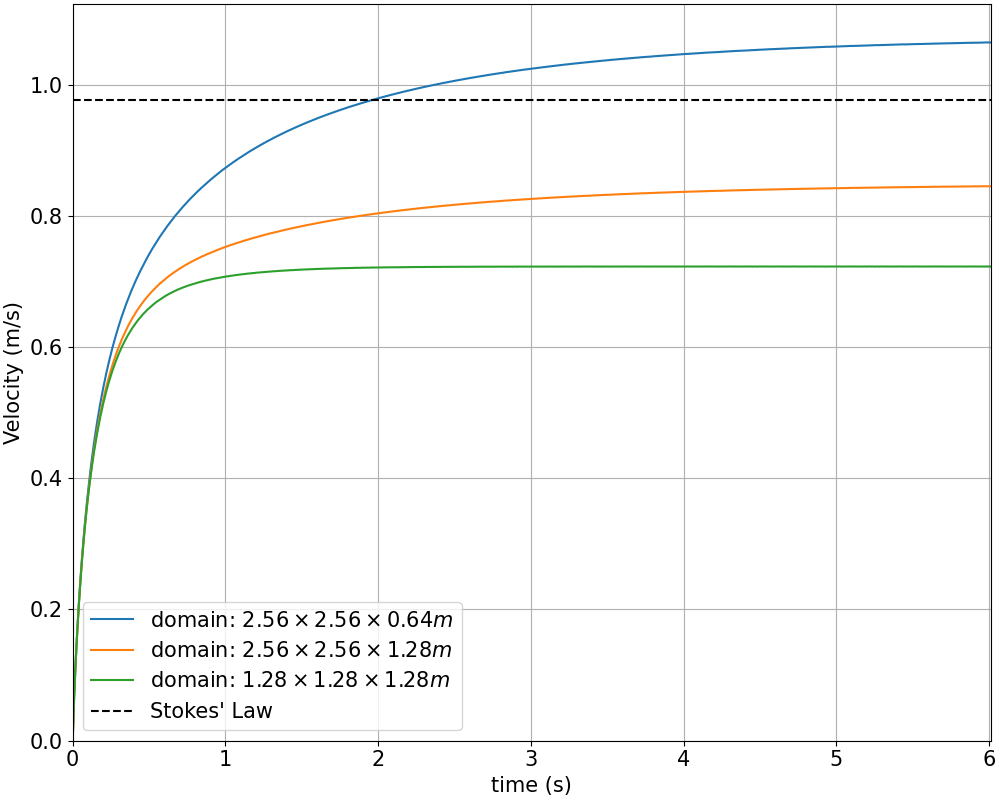
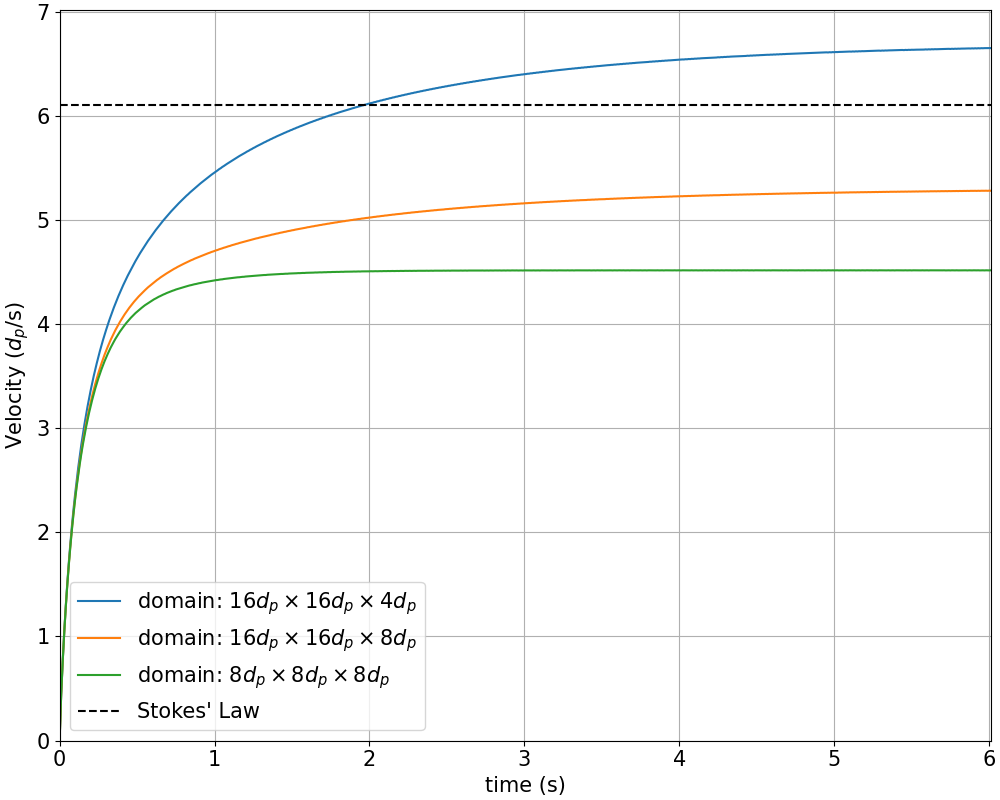
update

diff --git a/_pages/about.md b/_pages/about.md
@@ -9,9 +9,14 @@ redirect_from:
 
 I am a first-year CEE Ph.D. student at Stanford University. My interest lies in the complex physics of nature, including fluid mechanics, solid mechanics, and fluid-solid interactions, as well as applying numerical methods to model, predict, and understand their fundamental mechanisms. Currently, I am advised by Prof. [Oliver Fringer](https://web.stanford.edu/~fringer/) and collaborating with Prof. [Yinuo Yao](https://yao-mp-lab.github.io/).
 
+<div align="center" style="justify-content: center; display: flex; flex-direction: column; align-items: center;">
+  <figure style="margin: 0; width: 300px; text-align: center;">
+    <img src="/images/d0.005_rho2_1.4_rot.gif" width="300px">
+  </figure>
+</div>
+
 # Biography
 For more detailed information, please consult my  [CV](../files/CV.pdf).
-
 
 # Research
 
@@ -21,12 +26,12 @@ Direct numerical simulation (DNS) of particle-laden flows is a powerful tool for
 ### Sedimentation of uniformly distributed particles
 Sedimentation is the process by which suspended particles settle out of the fluid due to gravity or other forces acting on them. It plays an important role in in wastewater treatment and deposition of sediments in river and estuaries. 
 
-In our numerical studies, we examine the sedimentation of a single particle in a 3D triply-periodic domain. The particle's diameter is set at $$0.16m$$ with the particle Reynolds number $$ Re_{\tau} \approx 1.6$$. We investigated the influence of particle distance on its terminal velocity by considering domain sizes of $$ 2.56\times 2.56\times 0.64m$$, $$ 2.56\times 2.56\times 1.28m$$ and $$ 1.28\times 1.28\times 1.28m$$. The grid size is uniformly $$0.02m$$ in all directions. Using the PRS, we plotted the contour of vorticity and compared the time histories of velocity with the analytical value predicted by the Stokes' Law. The analysis shows that reducing the vertical distance increases the terminal velocity, as the drag is reduced when particles are closely aligned vertically. Conversely, reducing the horizontal distance decreases the terminal velocity, as the flow between the particles is accelerated.
+In our numerical studies, we examine the sedimentation of a single particle in a 3D triply-periodic domain. We investigated the influence of particle distance on its terminal velocity by considering domain sizes of $$ 16 d_p\times 16 d_p\times 4 d_p$$, $$ 16 d_p\times 16 d_p\times 8 d_p$$ and $$ 8 d_p\times 8 d_p\times 8 d_p $$, where $$d_p$$ is the particle's diameter. The grid size is uniformly $$1/8 d_p $$ in all directions. The particle Reynolds number $$ Re_{\tau} \approx 1.6$$. Using the PRS, we plotted the contour of vorticity and compared the time histories of velocity with the analytical value predicted by the Stokes' Law. The analysis shows that reducing the vertical distance increases the terminal velocity, as the drag is reduced when particles are closely aligned vertically. Conversely, reducing the horizontal distance decreases the terminal velocity, as the flow between the particles is accelerated.
 
 <div align="center" style="justify-content: center; display: flex; flex-direction: column; align-items: center;">
   <figure style="margin: 0; width: 250px; text-align: center;">
     <img src="/images/nu0.1_X2.56_Z2.56.gif" width="250px" style="display: block; margin: auto;">
-    <figcaption style="font-size: 0.75em; text-align: center; width: 100%; margin-top: 10px; margin-bottom: 20px;">Sedimentation on grid \(2.56\times 2.56\times 2.56m\)</figcaption>
+    <figcaption style="font-size: 0.75em; text-align: center; width: 100%; margin-top: 10px; margin-bottom: 20px;">Sedimentation on grid \(16 d_p\times 16 d_p\times 16 d_p\)</figcaption>
   </figure>
 </div>
 
@@ -42,7 +47,7 @@ In our numerical studies, we examine the sedimentation of a single particle in a
 ### The drafting, kissing and tumbling process of two particles
 The drafting, kissing and tumbling (DKT) process describes the dynamics and interactions between two particles moving in a fluid medium. Initially, the trailing particle accelerates as it enters the wake of the leading particle. Once the trailing particle catches up, it may collide with the leading particle and finally move away from it. The DKT process is influenced by the geometry of the system, the properties of the fluid, and the elastic and collision behaviors of particles. 
 
-We used the PRS to investigate the influence of the initial positions of particles and their densities. Simulations were performed in a 2D domain of $$2 \times 6m$$, and the diameter of the particles was $$0.25m$$. The grid was set to $$512 \times 1536$$. The contour plots of vorticity along with the particles during the DKT process are plotted below. In the reference case (a), both particles have a density of $$\rho_p = 1500kg/m^3 $$ with an initial lateral distance of $$0.005m$$. For case (b), the density of the leading particle is changed to $$\rho_p = 1400kg/m^3$$. It is observed that the two particles do not separate before hitting the ground. For case(c), we increase the initial lateral distance to $$0.25m$$. Remarkably, the trailing particle was still drawn into the wake of the leading particle and collided with it.
+We used the PRS to investigate the influence of the initial positions of particles and their densities. Simulations were performed in a 2D domain of $$ 8 d_p \times 24 d_p$$, where $$d_p$$ is the particle's diameter. The grid was set to $$512 \times 1536$$. The contour plots of vorticity along with the particles during the DKT process are plotted below. In the reference case (a), both particles have a density of $$\rho_p = 1.5 \rho_f $$ with an initial lateral distance of $$0.02 d_p$$. For case (b), the density of the leading particle is changed to $$\rho_p = 1.4 \rho_f$$. It is observed that the two particles do not separate before hitting the ground. For case(c), we increase the initial lateral distance to $$1 d_p$$. Remarkably, the trailing particle was still drawn into the wake of the leading particle and collided with it.
 <div align="center" style="display: flex; align-items: start; justify-content: center;">
   <figure style="margin-right: 30px; width: 150px; text-align: center;">
     <img src="/images/d0.005_rho2_1.5.gif" width="200">
@@ -62,26 +67,26 @@ We used the PRS to investigate the influence of the initial positions of particl
 ### Sediment transport
 Sediment transport refers to the movement of sediment particles by water across the Earth's surface. This fundamental geophysical process plays a crucial role in shaping landscapes, as well as in the formation of river channels and estuaries. Particle-resolved solvers provide us a detailed understanding of the sediment transport process, by directly modeling the fluid-particle interaction and particle-particle collision.
 
-We utilized the PRS to investigate the movement of a particle along coarse riverbed. The 2D computation domain was set as $$2.5 \times 1.25m$$ with a grid resolution of $$ 512 \times 256 $$ and it is periodic in $$x$$-direction. The riverbed was modeled with uniform, fixed particles. We imposed a free-slip boundary condition at the top. The diameter of the particles was $$0.25m$$. Three cases of particle density were considered: $$\rho_p = 1100, 1200, 1300kg/m^3 $$. Initially, the fluid was static, then a particle was released and a constant pressure gradient of $$ \frac{\partial p}{\partial  x} = -1000 Pa/m$$ was applied. The contour plot of $$x$$-velocity along with the particles are plotted below. 
+We utilized the PRS to investigate the movement of a particle along a coarse channel. The 2D computation domain was set as $$10 d_p \times 10d_p$$ with a grid resolution of $$ 512 \times 256 $$ and it is periodic in $$x$$-direction. The bottom of the channel was modeled with uniform, fixed particles. We also imposed a no-slip boundary condition at the top. Three cases of particle density were considered: $$\rho_p = 1.1, 1.2, 1.3 \rho_f $$. Initially, the fluid and particles were static, then a constant pressure gradient of $$ \frac{\partial p}{\partial  x} = - 0.1 \rho_f g$$ was applied, which gives shear velocity $$ u_{\tau} = 6.32d_p /s $$. During the simulation, the maximum particle Reynolds number $$ Re_{\tau} \approx 100$$. The contour plot of $$x$$-velocity along with the particle movement are plotted below. 
 
 <div align="center" style="justify-content: center; display: flex; flex-direction: column; align-items: center;">
   <figure style="margin: 0; width: 500px; text-align: center;">
     <img src="/images/st_rho1.1_f1000.gif" width="500px" style="display: block; margin: auto;">
-    <figcaption style="font-size: 0.75em; text-align: center; width: 100%; margin-top: 10px; margin-bottom: 20px;">$$\rho_p = 1100kg/m^3 $$</figcaption>
+    <figcaption style="font-size: 0.75em; text-align: center; width: 100%; margin-top: 10px; margin-bottom: 20px;">$$\rho_p = 1.1 \rho_f $$</figcaption>
   </figure>
 </div>
 
 <div align="center" style="justify-content: center; display: flex; flex-direction: column; align-items: center;">
   <figure style="margin: 0; width: 500px; text-align: center;">
     <img src="/images/st_rho1.2_f1000.gif" width="500px" style="display: block; margin: auto;">
-    <figcaption style="font-size: 0.75em; text-align: center; width: 100%; margin-top: 10px; margin-bottom: 20px;">$$\rho_p = 1200kg/m^3 $$</figcaption>
+    <figcaption style="font-size: 0.75em; text-align: center; width: 100%; margin-top: 10px; margin-bottom: 20px;">$$\rho_p = 1.2 \rho_f  $$</figcaption>
   </figure>
 </div>
 
 <div align="center" style="justify-content: center; display: flex; flex-direction: column; align-items: center;">
   <figure style="margin: 0; width: 500px; text-align: center;">
     <img src="/images/st_rho1.3_f1000.gif" width="500px" style="display: block; margin: auto;">
-    <figcaption style="font-size: 0.75em; text-align: center; width: 100%; margin-top: 10px; margin-bottom: 20px;">$$\rho_p = 1300kg/m^3 $$</figcaption>
+    <figcaption style="font-size: 0.75em; text-align: center; width: 100%; margin-top: 10px; margin-bottom: 20px;">$$\rho_p = 1.3\rho_f  $$</figcaption>
   </figure>
 </div>
 
